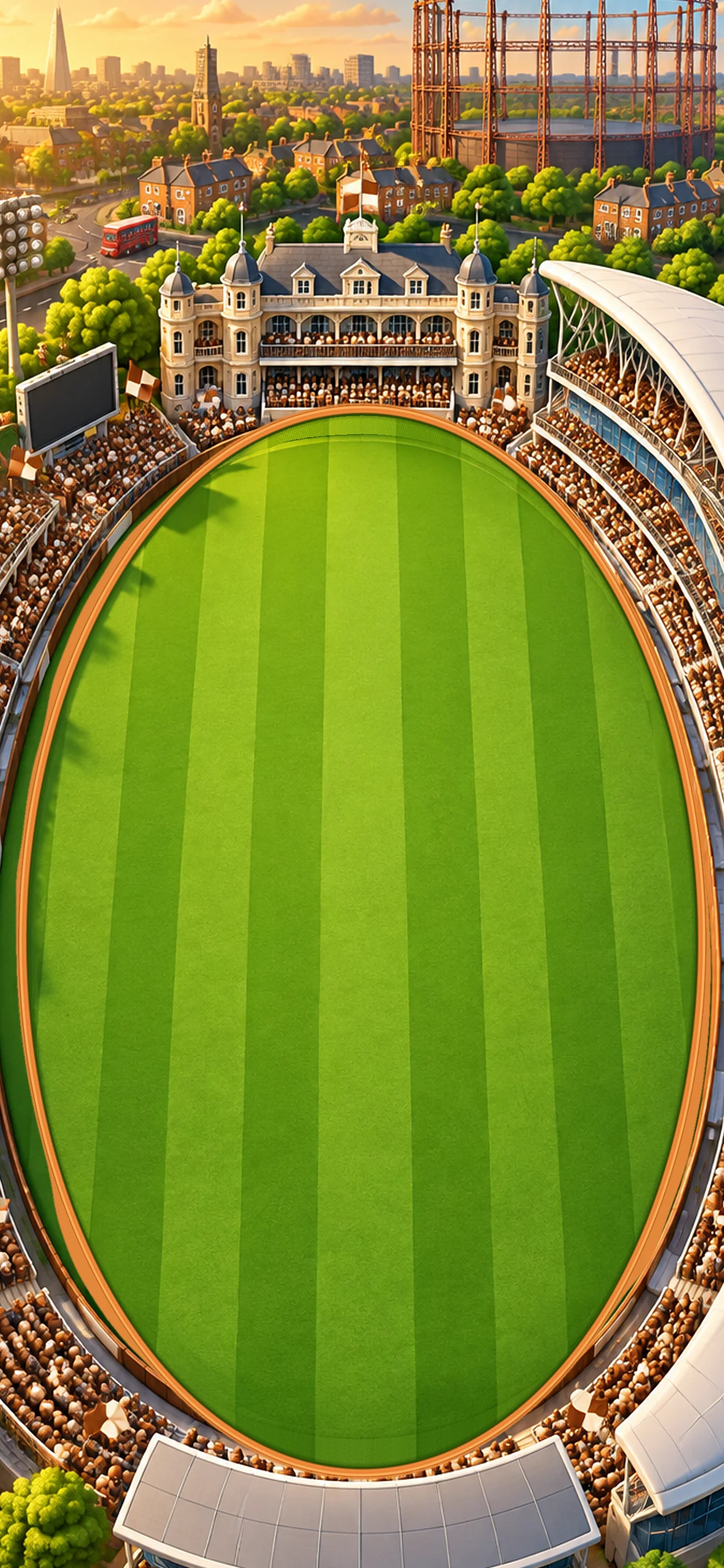
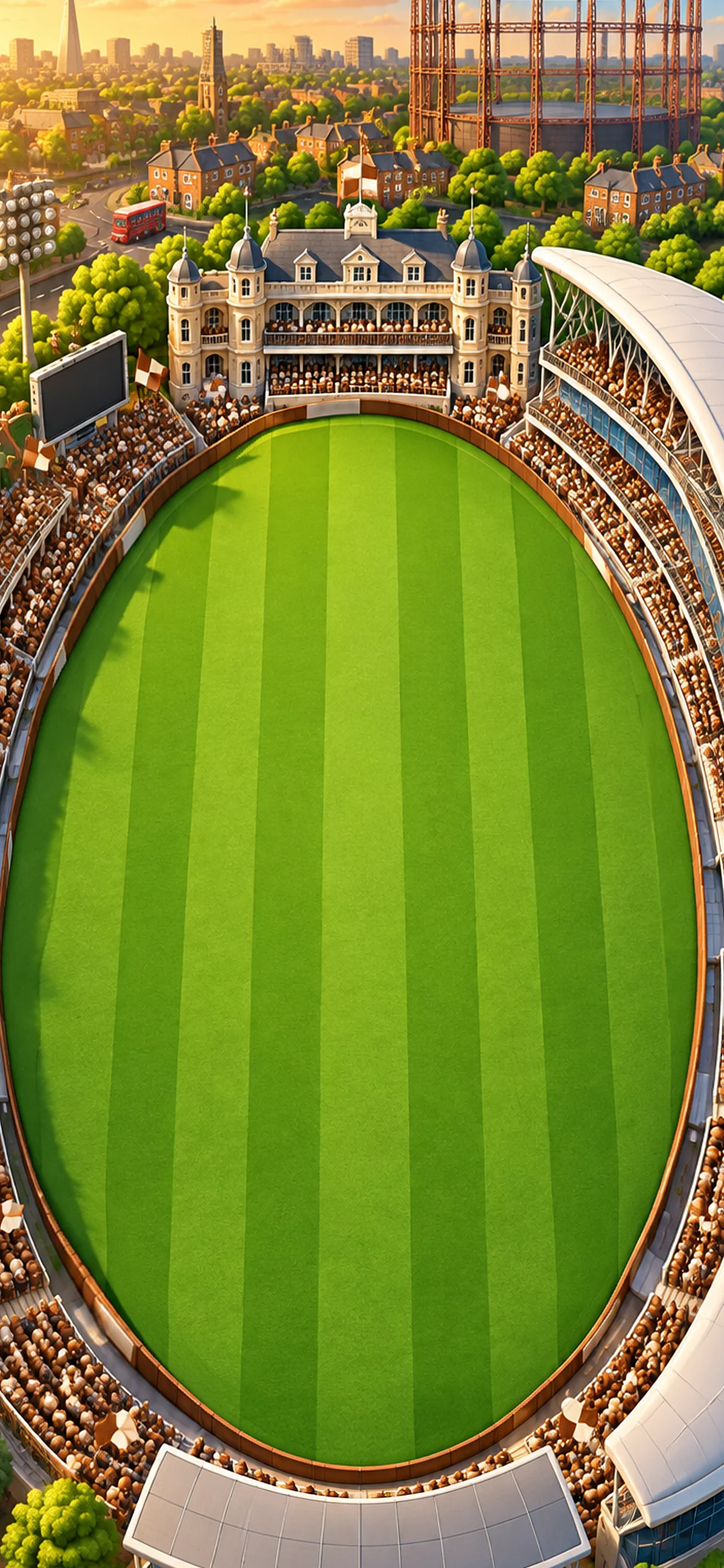
5.b The Oval: keep the painted boards, snapped exactly onto the boundary (no double or redrawn ring)
Claude-Session: https://claude.ai/code/session_01EnXvJ6P6HcGRxjBSnYPdAU

diff --git a/art/grounds/oval/build_clean.py b/art/grounds/oval/build_clean.py
@@ -1,0 +1,31 @@
+# 5.b Oval boundary fix (Joe: 'sort the boundary out'): redrawn rings left double boards / dotted bands. Instead keep the PAINTED
+# boards: the plate (406:193, ellipse 1.48) is scaled to the coded width and stretched vertically by the small ratio difference
+# (~6%, invisible on chunky cartoon art), so the painted board ring lands exactly on the coded oval. Search sx, sy, offsets for the
+# smallest max error. No ring repaint.
+import numpy as np, cv2
+from measure import measure
+W,H=1170,2532; cx,cy,rx,ry=.5*W,.6*H,.46*W,.335*H
+img=cv2.imread('raw/plate_406-193.png').astype(np.float32); ex,ey,ew,eh=np.load('ell.npy')
+def make(sx,sy,dx=0,dy=0):
+  up=cv2.resize(img,(round(img.shape[1]*sx),round(img.shape[0]*sy)),interpolation=cv2.INTER_CUBIC)
+  ox=int(round(ex*sx-cx+dx)); oy=int(round(ey*sy-cy+dy))
+  if oy<0:
+    n=-oy; sky=cv2.imread('../lords/raw/sky_402-191.png').astype(np.float32)
+    k=up.shape[1]/sky.shape[1]; sky=cv2.resize(sky,(up.shape[1],round(sky.shape[0]*k))); F2=90; need=n+F2
+    if sky.shape[0]<need: sky=np.concatenate([np.repeat(sky[:1],need-sky.shape[0],0),sky],0)
+    sky=sky[-need:]; gain=up[:12].reshape(-1,3).mean(0)/np.maximum(sky[-F2:-F2+12].reshape(-1,3).mean(0),1)
+    sky=sky*(1+(gain-1)*(np.linspace(0,1,need)[:,None,None]**1.5)); w2=np.linspace(0,1,F2)[:,None,None]
+    up[:F2]=sky[-F2:]*(1-w2)+up[:F2]*w2; up=np.concatenate([sky[:-F2],up],0); oy=0
+  c=up[oy:oy+H,max(ox,0):max(ox,0)+W]
+  if c.shape[0]<H: c=np.concatenate([c,np.repeat(c[-1:],H-c.shape[0],0)],0)
+  return np.clip(c,0,255).astype(np.uint8)
+sx0=2*rx/ew; sy0=2*ry/eh; best=None
+for a in np.arange(0.97,1.03,0.01):
+  for b in np.arange(0.97,1.03,0.01):
+    for dx in (-12,-6,0,6,12):
+      for dy in (-20,-10,0,10,20):
+        r=measure(make(sx0*a,sy0*b,dx,dy),12); e=np.abs(r[:,1]).max()
+        if best is None or e<best[0]: best=(e,a,b,dx,dy)
+print('best',best,'stretch y/x',round(sy0*best[2]/(sx0*best[1]),3))
+o=make(sx0*best[1],sy0*best[2],best[3],best[4])
+o=cv2.addWeighted(o,1.12,cv2.GaussianBlur(o,(0,0),2),-0.12,0); cv2.imwrite('plate.png',o)

diff --git a/art/grounds/oval/snap_ring.py b/art/grounds/oval/snap_ring.py
@@ -1,0 +1,26 @@
+# Nudge the painted board ring onto the coded oval: per angle, the painted grass edge sits e(angle) px off the oval (+ beyond).
+# A smooth radial shift of e, full at the ring and fading to 0 over 90 px inside (grass) and 90 px outside (crowd) — max ~20 px,
+# so nothing visibly bends. Offsets smoothed round the ring.
+import numpy as np, cv2, sys
+o=cv2.imread(sys.argv[1]); H,W=o.shape[:2]; cx,cy,rx,ry=.5*W,.6*H,.46*W,.335*H
+hsv=cv2.cvtColor(cv2.GaussianBlur(o,(0,0),2),cv2.COLOR_BGR2HSV).astype(int)
+g=((hsv[...,0]>=34)&(hsv[...,0]<=46)&(hsv[...,1]>150)&(hsv[...,2]>95)).astype(np.uint8)
+g=cv2.morphologyEx(g,cv2.MORPH_CLOSE,np.ones((7,7),np.uint8)); n,l=cv2.connectedComponents(g); grass=l==l[int(cy),int(cx)]
+N=720; e=np.zeros(N)
+for i in range(N):
+  t=2*np.pi*i/N-np.pi; R=np.hypot(np.cos(t)*rx,np.sin(t)*ry); d=-80
+  while d<80:
+    X=int(cx+np.cos(t)*rx*(1+d/R)); Y=int(cy+np.sin(t)*ry*(1+d/R))
+    if not(0<=X<W and 0<=Y<H) or not grass[Y,X]: break
+    d+=1
+  e[i]=d
+k=np.exp(-0.5*(np.arange(-20,21)/7.0)**2); k/=k.sum()
+e=np.convolve(np.concatenate([e[-20:],e,e[:20]]),k,'same')[20:-20]
+yy,xx=np.mgrid[:H,:W].astype(np.float32); dxn,dyn=(xx-cx)/rx,(yy-cy)/ry; rho=np.sqrt(dxn**2+dyn**2)+1e-6
+th=np.arctan2(dyn,dxn); Rr=np.hypot(np.cos(th)*rx,np.sin(th)*ry); dist=(rho-1)*Rr
+ei=e[((th+np.pi)/(2*np.pi)*N).astype(int)%N]
+F=90; wgt=np.clip(1-np.abs(dist)/F,0,1); wgt=wgt*wgt*(3-2*wgt)
+src_dist=dist+ei*wgt          # sample from where the painted ring actually is
+rs=1+src_dist/Rr; mx=(cx+dxn/rho*rs*rx).astype(np.float32); my=(cy+dyn/rho*rs*ry).astype(np.float32)
+out=cv2.remap(o,mx,my,cv2.INTER_CUBIC,borderMode=cv2.BORDER_REFLECT_101)
+cv2.imwrite(sys.argv[2],out); print('max shift px',round(float(np.abs(e).max()),1))

diff --git a/art/ui/HANDOVER.md b/art/ui/HANDOVER.md
@@ -780,3 +780,4 @@ After that: sprint 7 app-store build on Joe's Mac (RevenueCat with store-confirm
 
 - 5.b Oval v3 (Joe: 'doesn't scream the Oval; get the big stand in at the side; far end tapers into the ground and cuts the lower stands off'): Figma 405:191 — the big white curved-roof stand down the right and round the bottom, gasholders + pavilion top; field asked with 'BROAD, gently rounded ends like a pill — NOT pointed, NOT egg' (the 'egg/rounded point' wording made the ends taper, and ring.py then painted grass over the end stands). Painted 1.40 → rows REPEATED at the equator (oval/build.py now handles both cut and repeat), width-exact scale, ring.py (now also clears painted BROWN boards). **Never say 'egg' or 'point' for the field again.**
 - 5.b Oval clean pass (Joe: v3 'way too distorted'): Figma 406:193 on a TALLER canvas (request 1000x2048 -> 768x1792): the model painted a true 1.48 ellipse with the field an eighth in from each side. Fit = ONE even scale (searched), no rows cut/repeated, no stands pulled; ring.py now only fills grass inside the coded oval and thickens the boards over leftover grass outside (max 20 px) — nothing in the stands moves. **Recipe: ask for the 1000x2048 canvas (tall), PROMPTS.md field spec (eighth in, rounded ends), one even scale, no-pull ring.py.**
+- 5.b Oval boundary (Joe: 'sort the boundary out'): redrawn rings gave double boards / dotted bands. Now the PAINTED boards are kept: oval/build_clean.py = width-fit + ~6% vertical stretch (ratio 1.48 -> 1.576), then oval/snap_ring.py nudges the painted grass edge onto the coded oval with a smooth radial shift (full at the ring, fading over 90 px each side, max 26 plate px). Single clean board ring, within ~1.5 phone px p90. **Use build_clean + snap_ring for stadiums from now on (not ring.py).**
